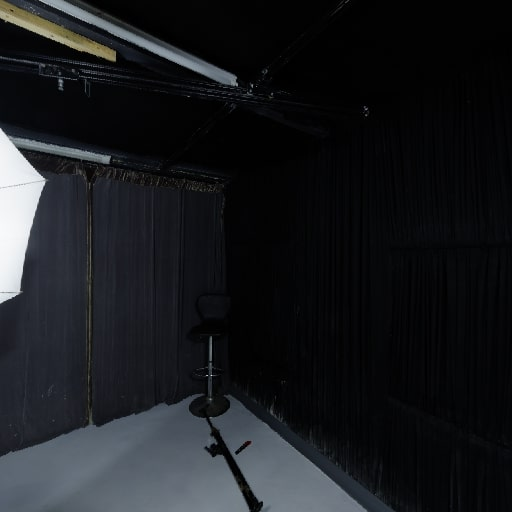
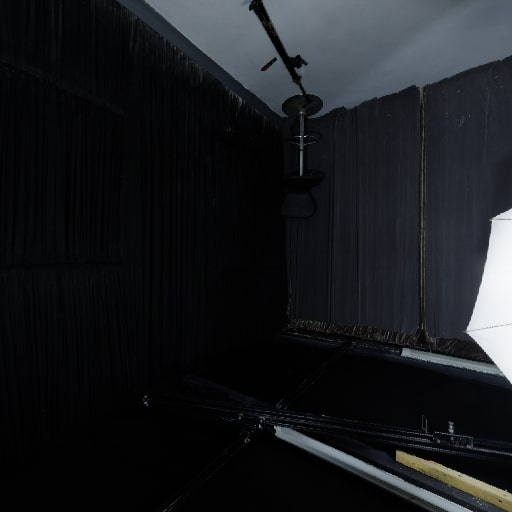
FUCK VS

diff --git a/assignments/final/main.cpp b/assignments/final/main.cpp
@@ -128,18 +128,18 @@ int main() {
 	billboardTransform.scale = glm::vec3(1, 1, 1);
 
 	//Skybox
-	ew::Model skyboxMesh = ew::Model(ew::createCube(5.0));
+	ew::Model skyboxMesh = ew::Model(ew::createCube(1.0));
 	ew::Transform skyboxTransform;
 	//skyboxTransform.position = glm::vec3(0.0,100.0,0.0);
-	skyboxTransform.scale = glm::vec3(-100.0);
+	skyboxTransform.scale = glm::vec3(-1000.0);
 	std::vector<std::string> skyboxFaces
 	{
 			"assets/skyboxRight.jpg",
 			"assets/skyboxLeft.jpg",
 			"assets/skyboxTop.jpg",
 			"assets/skyboxBottom.jpg",
-			"assets/skyboxFront.jpg",
 			"assets/skyboxBack.jpg"
+			"assets/skyboxFront.jpg"
 	};
 	ilgl::Material skyboxMat;
 	skyboxMat.colorTexture = ew::createCubeMap(skyboxFaces);

diff --git a/core/ew/texture.cpp b/core/ew/texture.cpp
@@ -60,6 +60,7 @@ namespace ew {
 
 		int width, height, nrChannels;
 		for (unsigned int i = 0; i < faces.size(); i++) {
+			stbi_set_flip_vertically_on_load(true);
 			unsigned char* data = stbi_load(faces[i].c_str(), &width, &height, &nrChannels, 0);
 			if (data)
 			{
@@ -71,6 +72,7 @@ namespace ew {
 				printf("Cubemap texture failed to load at path: %s", faces[i]);
 				stbi_image_free(data);
 			}
+			stbi_set_flip_vertically_on_load(false);
 		}
 		glTexParameteri(GL_TEXTURE_CUBE_MAP, GL_TEXTURE_MIN_FILTER, GL_LINEAR);
 		glTexParameteri(GL_TEXTURE_CUBE_MAP, GL_TEXTURE_MAG_FILTER, GL_LINEAR);
